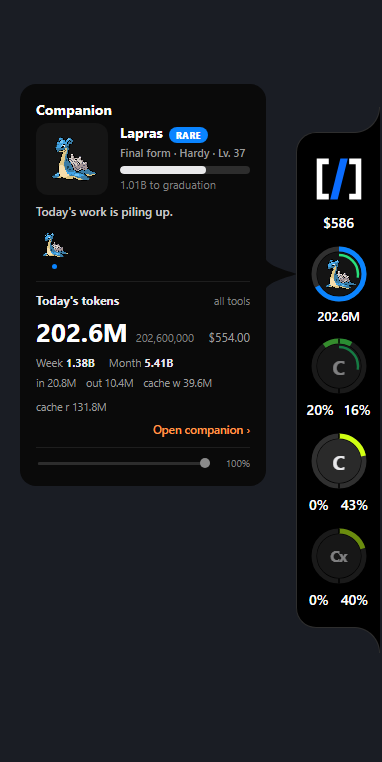
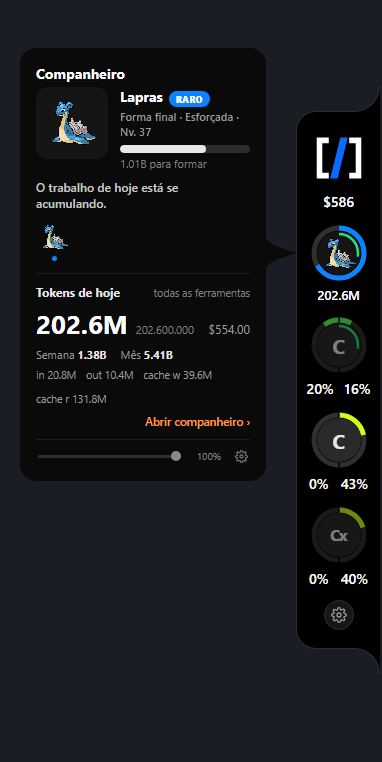
A gear at the foot of the pill and in the panel header; the pet window gets its capabilities; pendings
The pet window was not listed in capabilities/default.json, so event.listen was refused
there and the page never received a new size or a bubble. The README documents the
four ways into Settings and its images are fresh renders of the pages.

diff --git a/notchmon/ui/consumo.html b/notchmon/ui/consumo.html
@@ -10,6 +10,7 @@
   .hd svg{width:20px;height:19px;display:block}
   .muted{color:#8a8a8a;font-size:10.5px}
   .x{color:#8a8a8a;font-size:18px;line-height:1;cursor:pointer;padding:0 2px}.x:hover{color:#fff}
+  .x.gear{display:inline-flex;padding:3px;border-radius:6px;margin-right:2px}.x.gear:hover{background:#1e1e1e}.x.gear svg{width:16px;height:16px}
   /* The five tabs: Uso is the codeburn panel as it was; the other four are the companion */
   .tabs{display:flex;gap:3px;background:#151515;border-radius:10px;padding:3px;margin-top:10px}
   .tabs span{flex:1;min-width:0;text-align:center;padding:6px 1px;border-radius:8px;color:#9a9a9a;font-size:11px;cursor:pointer;white-space:nowrap;overflow:hidden;text-overflow:ellipsis}
@@ -135,7 +136,7 @@
 <div class="panel" id="panel">
   <div class="hd">
     <svg viewBox="0 0 60 56" role="img" aria-label="NovArc"><path d="M19 6 H6 V50 H19 V44 H12 V12 H19 Z" fill="#FFFFFF"></path><path d="M31.5 6 H39.5 L28.5 50 H20.5 Z" fill="#0A6CFF"></path><path d="M41 6 H54 V50 H41 V44 H48 V12 H41 Z" fill="#FFFFFF"></path></svg>
-    <b id="title">NotchMon</b><span class="muted" id="age"></span><span class="x" id="close" title="Close (Esc)">×</span>
+    <b id="title">NotchMon</b><span class="muted" id="age"></span><span class="x gear" id="settings" role="button" title="Settings"><svg viewBox="0 0 24 24" fill="none" stroke="currentColor" stroke-width="2" stroke-linecap="round" stroke-linejoin="round"><circle cx="12" cy="12" r="3"/><path d="M19.4 15a1.7 1.7 0 0 0 .3 1.8l.1.1a2 2 0 1 1-2.8 2.8l-.1-.1a1.7 1.7 0 0 0-1.8-.3 1.7 1.7 0 0 0-1 1.5V21a2 2 0 1 1-4 0v-.1a1.7 1.7 0 0 0-1.1-1.5 1.7 1.7 0 0 0-1.8.3l-.1.1a2 2 0 1 1-2.8-2.8l.1-.1a1.7 1.7 0 0 0 .3-1.8 1.7 1.7 0 0 0-1.5-1H3a2 2 0 1 1 0-4h.1a1.7 1.7 0 0 0 1.5-1.1 1.7 1.7 0 0 0-.3-1.8l-.1-.1a2 2 0 1 1 2.8-2.8l.1.1a1.7 1.7 0 0 0 1.8.3H9a1.7 1.7 0 0 0 1-1.5V3a2 2 0 1 1 4 0v.1a1.7 1.7 0 0 0 1 1.5 1.7 1.7 0 0 0 1.8-.3l.1-.1a2 2 0 1 1 2.8 2.8l-.1.1a1.7 1.7 0 0 0-.3 1.8V9a1.7 1.7 0 0 0 1.5 1H21a2 2 0 1 1 0 4h-.1a1.7 1.7 0 0 0-1.5 1z"/></svg></span><span class="x" id="close" title="Close (Esc)">×</span>
   </div>
   <div class="tabs" id="tabs"><span data-t="uso">Uso</span><span data-t="companion">Companheiro</span><span data-t="shop">Loja</span><span data-t="bag">Mochila</span><span data-t="dex">Pokédex</span></div>
 
@@ -182,7 +183,7 @@ const ago=ms=>{const m=Math.round((Date.now()-ms)/60000);return m<1?T('just now'
 const mcpName=n=>/^[0-9a-f]{8}-[0-9a-f-]{27}$/i.test(n)?'connector '+n.slice(0,4):n;
 
 /* ---- words: English, Portuguese ---- */
-const PT={
+const PT={'Settings':'Configurações',
   'Uso':'Uso','Companion':'Companheiro','Shop':'Loja','Bag':'Mochila','Pokédex':'Pokédex','All':'Tudo','Today':'Hoje','7 days':'7 dias','30 days':'30 dias','Month':'Mês',
   'Activity':'Atividade','Sessions':'Sessões','Tokens':'Tokens','Cost':'Custo','Calls':'Chamadas','less':'menos','more':'mais','just now':'agora','min ago':'min atrás','h ago':'h atrás',
   'codeburn is not installed (npm i -g codeburn).':'O codeburn não está instalado (npm i -g codeburn).','Reading codeburn… the first pass takes a minute or two.':'Lendo o codeburn… a primeira passada leva um ou dois minutos.',
@@ -207,6 +208,7 @@ const cap=s=>s?s.charAt(0).toUpperCase()+s.slice(1):'';
 const moveName=s=>String(s||'').split('-').map(cap).join(' ');
 function applyStatic(){
   document.querySelectorAll('#tabs span').forEach(s=>s.textContent=T({uso:'Uso',companion:'Companion',shop:'Shop',bag:'Bag',dex:'Pokédex'}[s.dataset.t]));
+  document.getElementById('settings').title=T('Settings');
   document.querySelectorAll('#prov span').forEach(s=>s.textContent=T({all:'All',claude:'Claude',codex:'Codex'}[s.dataset.v]));
   document.querySelectorAll('#per span').forEach(s=>s.textContent=T({today:'Today',week:'7 days','30days':'30 days',month:'Month'}[s.dataset.v]));
   document.querySelectorAll('#metric span').forEach(s=>s.textContent=T({s:'Sessions',tok:'Tokens',c:'Cost',k:'Calls'}[s.dataset.m]));
@@ -622,6 +624,7 @@ document.getElementById('per').addEventListener('click',e=>{const s=e.target.clo
 document.getElementById('metric').addEventListener('click',e=>{const s=e.target.closest('span'); if(!s)return; metric=s.dataset.m; document.querySelectorAll('#metric span').forEach(x=>x.classList.toggle('on',x===s)); paintHeat();});
 const close=()=>invoke('close_consumo').catch(()=>{});
 document.getElementById('close').addEventListener('click',close);
+document.getElementById('settings').addEventListener('click',()=>invoke('open_settings').catch(()=>{}));
 document.addEventListener('keydown',e=>{ if(e.key==='Escape'){ if(profileId){profileId=null;render();} else close(); } });
 listen('codeburn',e=>{ if(e.payload){ cb=e.payload; render(); } }).catch(()=>{});
 listen('consumo_open',e=>{ const p=e.payload; if(!p) return; if(['companion','shop','bag','dex'].includes(p)){ setTab(p); } else { prov=p; setTab('uso'); } }).catch(()=>{});

diff --git a/notchmon/ui/notch.html b/notchmon/ui/notch.html
@@ -36,6 +36,9 @@
     background:radial-gradient(circle at 0 100%, transparent calc(var(--fillet) - 1.5px), #2e2e2e calc(var(--fillet) - 0.5px), #000 calc(var(--fillet) + 0.5px));
   }
   .cell{display:flex;flex-direction:column;align-items:center;gap:6px;width:100%}
+  .gear-btn{width:30px;height:30px;border-radius:50%;background:#161616;border:1px solid #2e2e2e;display:flex;align-items:center;justify-content:center;color:#9a9a9a;cursor:pointer;margin-top:-2px}
+  .gear-btn:hover{color:#fff;background:#2a2a2a;border-color:#444}
+  .gear-btn svg{width:16px;height:16px}
   .ringwrap{position:relative;width:56px;height:56px}
   .ringwrap > svg.ring{position:absolute;inset:0;overflow:visible} /* pins only the ring itself; an inline logo svg must not match this or it ends up in the top-left corner */
   .glyph{
@@ -499,7 +502,7 @@ function renderRing(){
     const mon=monMode==='none'?'':`<div class="cell mon ${monMode==='hero'?'hero':''}" data-p="mon"><div class="ringwrap"><svg class="ring" viewBox="0 0 56 56"></svg><div class="glyph"><img alt=""></div></div>${monMode==='hero'?'<div class="mon-name"></div>':''}<div class="pct one">—</div></div>`;
     pill.innerHTML=(monMode==='hero'?mon+brand:brand+mon)+ps.map(p=>`<div class="cell" data-p="${p.id}">
       <div class="ringwrap"><svg class="ring" viewBox="0 0 56 56"></svg><div class="glyph ${(!glyphOf(p)&&p.glyph.length>1)?'small':''}">${glyphHtml(p)}</div></div>
-      <div class="pct">—</div></div>`).join('')+FOLD_TAB;
+      <div class="pct">—</div></div>`).join('')+`<div class="gear-btn" data-p="gear" role="button" aria-label="${textCopy('Settings')}" title="${textCopy('Settings')}">${GEAR}</div>`+FOLD_TAB;
     pill.dataset.cells=want;
   }
   const brandPct=pill.querySelector('.brand .pct'); if(brandPct) brandPct.textContent=cb.last24h?usd(cb.last24h.total):'—';
@@ -858,7 +861,7 @@ document.addEventListener('mousemove',e=>{
     const id=cellAt(e.clientX,e.clientY);
     if(id&&id!==hoverId){ hoverId=id; if(card.classList.contains('show')){ renderCard(); armWatchdog(); } }
     // Heading for the fold chevron is not asking for the card
-    if(!card.classList.contains('show') && !(e.target.closest&&e.target.closest('.tab'))) showCard();
+    if(!card.classList.contains('show') && !(e.target.closest&&(e.target.closest('.tab')||e.target.closest('.gear-btn')))) showCard();
   }
   else if(card.classList.contains('show')){ if(hideLogged++<5) jslog(`mousemove left the hot area -> collapse at ${e.clientX},${e.clientY}`); scheduleHide(); }
 });
@@ -882,7 +885,7 @@ listen('state',()=>{if(card.classList.contains('show'))armWatchdog();}).catch(()
 /* The pill can be dragged up and down the right edge. Press and move more than 4 px = drag (handed to Rust,
    which follows the system cursor; the card is collapsed first); release without moving = click (opens the provider's usage page). */
 let press=null, dragging=false;
-pill.addEventListener('mousedown',e=>{ if(e.button!==0)return; if(e.target.closest('.tab')){ setFolded(true); return; } press={x:e.clientX,y:e.clientY,id:cellAt(e.clientX,e.clientY)||hoverId}; });
+pill.addEventListener('mousedown',e=>{ if(e.button!==0)return; if(e.target.closest('.tab')){ setFolded(true); return; } if(e.target.closest('.gear-btn')){ press={x:e.clientX,y:e.clientY,id:'gear'}; return; } press={x:e.clientX,y:e.clientY,id:cellAt(e.clientX,e.clientY)||hoverId}; });
 document.addEventListener('mousemove',e=>{
   if(!press||dragging)return;
   if(Math.abs(e.clientY-press.y)>4||Math.abs(e.clientX-press.x)>4){
@@ -893,7 +896,8 @@ document.addEventListener('mousemove',e=>{
 document.addEventListener('mouseup',e=>{
   if(e.button!==0)return;
   if(press&&!dragging){
-    if(press.id==='novarc') invoke('open_consumo',{provider:'all'}).catch(e=>notice('open_consumo failed: '+e));
+    if(press.id==='gear') invoke('open_settings').catch(e=>notice('open_settings failed: '+e));
+    else if(press.id==='novarc') invoke('open_consumo',{provider:'all'}).catch(e=>notice('open_consumo failed: '+e));
     else if(press.id==='mon') invoke('open_consumo',{provider:'companion'}).catch(e=>notice('open_consumo failed: '+e));
     else invoke('open_provider_page',{provider:press.id}).catch(()=>{});
   }

diff --git a/PENDINGS.md b/PENDINGS.md
@@ -1,0 +1,74 @@
+# PENDINGS.md
+
+Open items left behind by executed plans. **Every plan writes here.** When a plan
+finishes and something is knowingly not done — deferred, blocked, gated on a decision,
+or accepted as-is — it lands in this file instead of only in a chat message that
+nobody will find again.
+
+## How to use it
+
+- **One section per plan/slice**, newest first. Keep the plan file path so the context
+  is recoverable.
+- Every entry states **what is pending, why it was not done, and what unblocks it**.
+  "Why" is the part that saves the next person from re-deriving the decision.
+- Mark each entry with a status:
+  - `OPEN` — needs doing.
+  - `GATED` — blocked on a decision or an external condition; name the gate.
+  - `ACCEPTED` — knowingly left as-is; not a bug, do not re-flag it.
+- Delete an entry when it is genuinely resolved. Do not leave a graveyard of DONEs.
+- A pending that touches another slice's domain is **recorded here, not fixed
+  unilaterally** — flag it and let the owner decide.
+
+### Write them short
+
+This file is read when someone is about to work, not for pleasure. Density beats prose.
+
+- **Target: 3–6 lines per entry.** If it needs more, the entry is really two entries, or it
+  belongs in the plan/spec — link there instead of re-explaining.
+- **Drop the connective tissue.** No "it is worth noting that", no restating the title in the
+  first sentence, no paragraph of background before the point.
+- **Three facts, that is the whole shape**: what is pending · why it was not done · what
+  unblocks it. Anything that is not one of the three is cut.
+- **Keep every identifier, number, path and error string exact.** Terse means fewer words, never
+  vaguer facts. `403 on getMarketplaceParticipations` survives; "an auth problem" does not.
+- **No credential-rotation chores.** Secret hygiene is handled outside this file — do not add
+  "rotate X" items here.
+
+---
+
+## NotchMon companion — `docs/plans/2026-09-16-notchmon-companion-plan.md` (2026-09-16)
+
+- `OPEN` **Pet size change verified by reasoning, not by a run.** Root cause found: the `pet`
+  window was missing from `notchmon/capabilities/default.json`, so `event.listen` was refused
+  and `pet.html` never received `companion_prefs`; the window resized, the sprite did not.
+  Fixed in this branch. Unblock: with the pet visible, Settings → Companion → pet size 48 → 384
+  and confirm the sprite grows; also confirm a bubble shows on the next Rare Candy.
+
+- `OPEN` **OS toast notifications.** The in-app bubbles (pill, pet) stand in for hatch,
+  evolution, graduation, shiny and candy. Not ported because it needs `tauri-plugin-notification`
+  and a permission entry. Unblock: add the plugin, gate it behind `companion.notifications`.
+
+- `OPEN` **Cursor and Antigravity tokens for the companion.** Only Claude Code transcripts and
+  Codex rollouts feed `tokens.rs`; the other two rings still show usage but grant no XP.
+  Not done: no on-disk per-request token log is known for either. Unblock: locate one.
+
+- `OPEN` **Codex fork/subagent replay dedup.** `parse_codex_line` skips a repeated identical
+  `last_token_usage` state, but a forked rollout replays the parent's `token_count` events and
+  counts them twice. Unblock: a sample rollout with a fork, then key on the first event's
+  turn id.
+
+- `OPEN` **Companion save export/import.** `companion.json` under `%APPDATA%\notchmon` is the
+  whole save; there is no UI to back it up or move it. Cut for scope. Unblock: a Settings
+  button pair that copies the file out and in (validate with `serde` before replacing).
+
+- `ACCEPTED` **Old "Codenotch" autostart value is not migrated.** `autostart.rs` now writes
+  `NotchMon`; an upgrader with start-at-sign-in on keeps a dead `Codenotch` Run value pointing
+  at the removed exe and sees the switch off. Re-enable in Settings. The dev machine had none.
+
+- `ACCEPTED` **`tray_sprite_file` builds a `pokeapi::Client` every 2 s** while the sprite tray
+  icon is on (two `create_dir_all`). Marked `ponytail:` in `main.rs`; cache the path if it
+  ever shows in a profile.
+
+- `ACCEPTED` **`docs/img/pill-states.png` predates the gear button.** It is the states board
+  from the design canvas, so the pill in it has no gear at its foot. Regenerate when the canvas
+  is re-seeded; every other image under `docs/img` is a fresh render of the shipped pages.

diff --git a/README.md b/README.md
@@ -152,7 +152,8 @@ cargo test -p notchmon                 # the engine, the readers, the PokéAPI p
 
 ## Settings
 
-Tray menu: **Settings…**, **Refresh usage now**, **Quit**. The settings window covers the
+Four ways in: the gear at the foot of the pill, the gear in the panel's header, a right-click
+anywhere on the pill, or the tray menu (**Settings…**, **Refresh usage now**, **Quit**). The settings window covers the
 taskbar icon, which rings the notch shows, its size, the **Companion** (pill layout, floating pet
 and its size, representative Pokémon, animation quality, used or remaining limits, event
 bubbles, the sprite in the taskbar icon, difficulty), start with Windows, the language (English,
@@ -291,7 +292,9 @@ então nada de antes da instalação conta. O codeburn continua cuidando dos dó
 
 ### Configurações
 
-Menu da bandeja: **Configurações…**, **Atualizar uso agora**, **Sair**. A janela de
+Quatro caminhos: a engrenagem no pé da barrinha, a engrenagem no cabeçalho do painel, clique
+direito em qualquer ponto da barrinha, ou o menu da bandeja (**Configurações…**, **Atualizar uso
+agora**, **Sair**). A janela de
 configurações tem a aba **Companheiro** (layout na barrinha, pet e tamanho, Pokémon
 representativo, animação, limite mostrado como usado ou restante, balões, sprite no ícone da
 bandeja, dificuldade) e o idioma, com português e inglês. Tudo fica em `%APPDATA%\notchmon`
